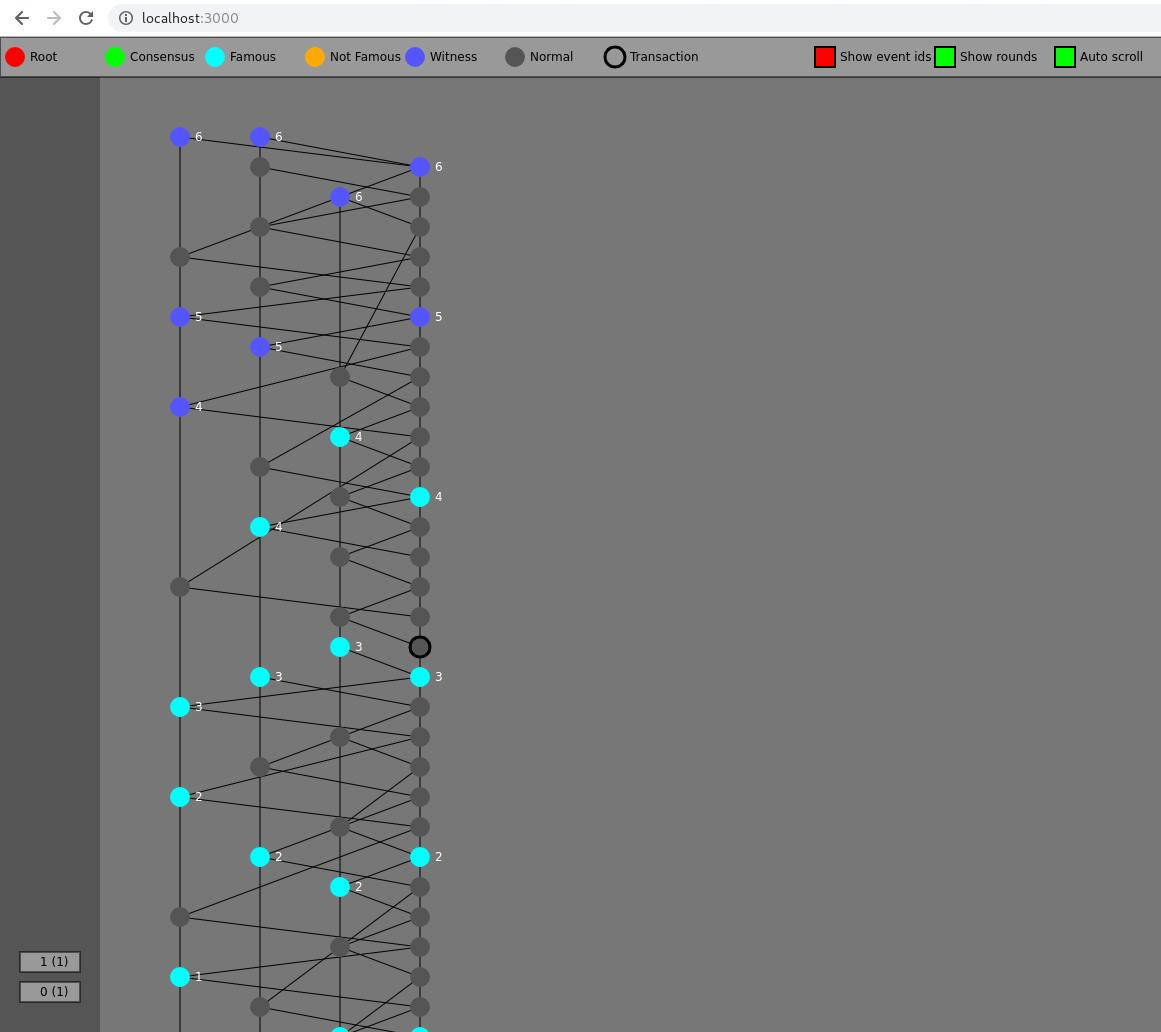
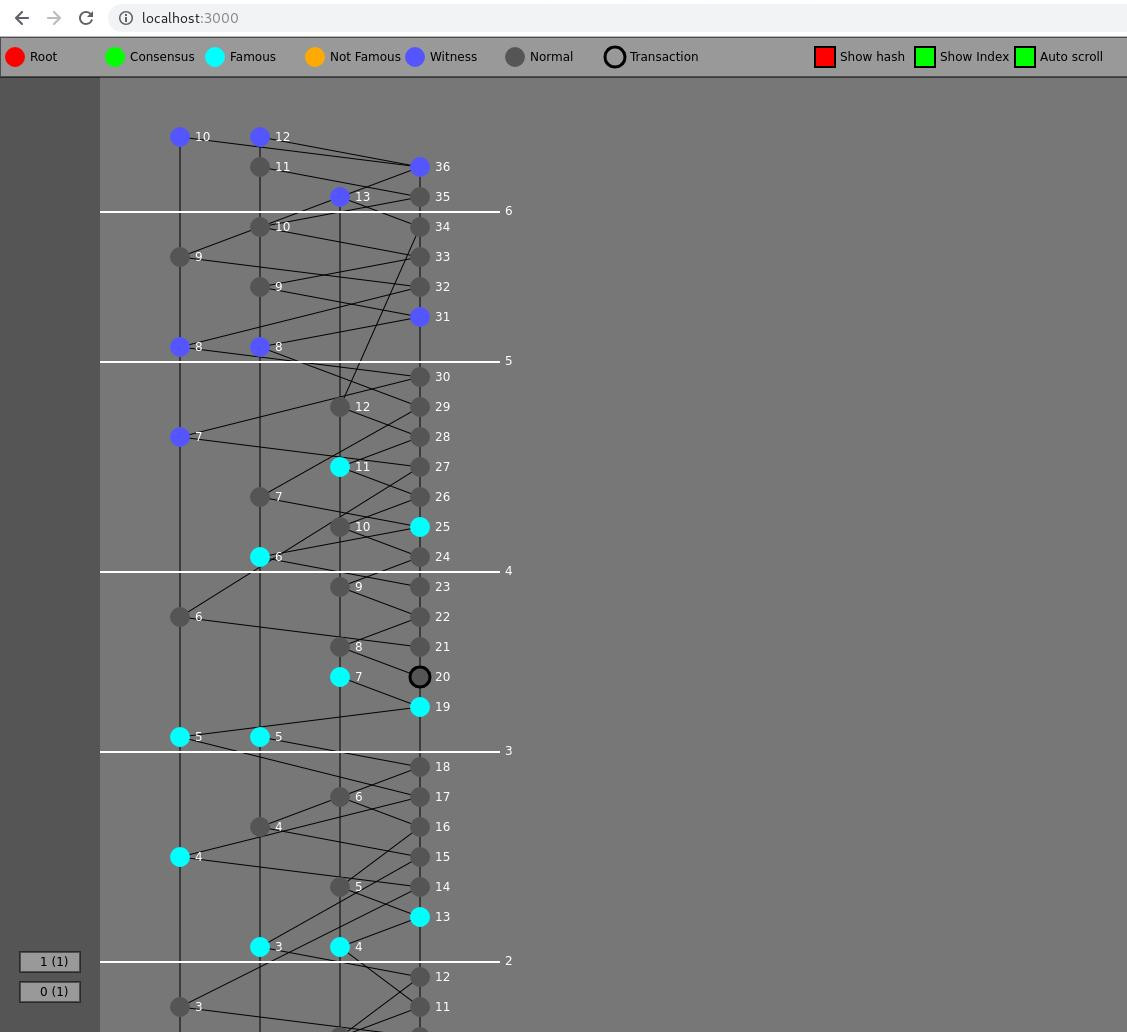
Restored round lines, replaced event Round text by event Index

diff --git a/static/assets/draw.js b/static/assets/draw.js
@@ -111,7 +111,7 @@ const drawEvent = (id, event) => {
         fill: 'white',
     });
 
-    if (!settingValues.showEventIds) {
+    if (!settingValues.showEventHash) {
         event.text.hide();
     }
 
@@ -140,18 +140,16 @@ const drawEvent = (id, event) => {
     hgGroup.add(event.text);
 
     // Round ID
-    if (event.Witness) {
-        event.roundId = new Konva.Text({
-            x: event.x + 15,
-            y: -event.y - 5,
-            text: '' + event.Round,
-            fontSize: 12,
-            fontFamily: 'Calibri',
-            fill: 'white',
-        });
+    event.roundIdx = new Konva.Text({
+        x: event.x + 15,
+        y: -event.y - 5,
+        text: '' + event.Body.Index,
+        fontSize: 12,
+        fontFamily: 'Calibri',
+        fill: 'white',
+    });
 
-        hgGroup.add(event.roundId);
-    }
+    hgGroup.add(event.roundIdx);
 
     if (settingValues.autoScroll) {
         hgGroup.setY(_.max([window.innerHeight, hgGroup.getY(), event.y + 100]));
@@ -182,60 +180,60 @@ const drawEventLinks = event => {
 };
 
 // Draw the round separators
-// const drawRoundLines = rounds => {
-//     // Dirty tmp fix for events that are in the first and second round
-//     if (rounds.length >= 2) {
-//         rounds[1].CreatedEvents = _.fromPairs(_.differenceBy(_.toPairs(rounds[1].CreatedEvents), _.toPairs(rounds[0].CreatedEvents), ([rId, round]) => rId));
-//     }
+const drawRoundLines = rounds => {
+    // Dirty tmp fix for events that are in the first and second round
+    if (rounds.length >= 2) {
+        rounds[1].CreatedEvents = _.fromPairs(_.differenceBy(_.toPairs(rounds[1].CreatedEvents), _.toPairs(rounds[0].CreatedEvents), ([rId, round]) => rId));
+    }
 
-//     _(rounds)
-//         .each((round, rId) => {
-//             // Dont draw existing round
-//             if (rId <= actualRound) {
-//                 return;
-//             }
+    _(rounds)
+        .each((round, rId) => {
+            // Dont draw existing round
+            if (rId <= actualRound) {
+                return;
+            }
 
-//             let roundEvents = [];
+            let roundEvents = [];
 
-//             _.forIn(round.CreatedEvents, (event, reId) => {
-//                 roundEvents.push(_.find(events, ([eId, e]) => eId === reId))
-//             });
+            _.forIn(round.CreatedEvents, (event, reId) => {
+                roundEvents.push(_.find(events, ([eId, e]) => eId === reId))
+            });
 
 
-//             roundEvents = _.compact(roundEvents);
+            roundEvents = _.compact(roundEvents);
 
-//             if (roundEvents.length === 0) {
-//                 return
-//             }
+            if (roundEvents.length === 0) {
+                return
+            }
 
-//             let [eId, ev] = _.minBy(roundEvents, ([eId, ev]) => ev.y);
+            let [eId, ev] = _.minBy(roundEvents, ([eId, ev]) => ev.y);
 
-//             let line = new Konva.Line({
-//                 points: [
-//                     100,
-//                     -(ev.y - yInterval / 2),
-//                     100 + (_.keys(participants).length + 1) * xInterval,
-//                     -(ev.y - yInterval / 2),
-//                 ],
-//                 stroke: 'white',
-//                 strokeWidth: 2,
-//             });
+            let line = new Konva.Line({
+                points: [
+                    100,
+                    -(ev.y - yInterval / 2),
+                    100 + (_.keys(participants).length + 1) * xInterval,
+                    -(ev.y - yInterval / 2),
+                ],
+                stroke: 'white',
+                strokeWidth: 2,
+            });
 
-//             let txt = new Konva.Text({
-//                 x: 100 + 5 + (_.keys(participants).length + 1) * xInterval,
-//                 y: -(ev.y - yInterval / 2 + 6),
-//                 text: '' + rId,
-//                 fontSize: 12,
-//                 fontFamily: 'Calibri',
-//                 fill: 'white',
-//             });
+            let txt = new Konva.Text({
+                x: 100 + 5 + (_.keys(participants).length + 1) * xInterval,
+                y: -(ev.y - yInterval / 2 + 6),
+                text: '' + rId,
+                fontSize: 12,
+                fontFamily: 'Calibri',
+                fill: 'white',
+            });
 
-//             hgGroup.add(line);
-//             hgGroup.add(txt);
-//         });
+            hgGroup.add(line);
+            hgGroup.add(txt);
+        });
 
-//     actualRound = rounds.length - 1;
-// };
+    actualRound = rounds.length - 1;
+};
 
 const drawBlocks = blocks => {
     _.each(blocks, (block, bId) => {
@@ -289,7 +287,7 @@ const draw = (evs, rounds, blocks) => {
         drawEventLinks(event);
     });
 
-    // drawRoundLines(rounds);
+    drawRoundLines(rounds);
 
     drawBlocks(blocks)
 
@@ -381,32 +379,28 @@ const drawLegend = () => {
 const drawSettings = () => {
     let settings = [
         {
-            label: 'Show event ids',
-            name: 'showEventIds',
+            label: 'Show hash',
+            name: 'showEventHash',
             trigger: () => {
-                if (settingValues.showRounds && settingValues.showEventIds) {
+                if (settingValues.showEventIdx && settingValues.showEventHash) {
                     toggle(settings[1]);
                 }
 
-                _.each(events, ([eId, event]) => settingValues.showEventIds ? event.text.show() : event.text.hide());
+                _.each(events, ([eId, event]) => settingValues.showEventHash ? event.text.show() : event.text.hide());
+
                 layer.draw();
             }
         },
         {
-            label: 'Show rounds',
-            name: 'showRounds',
+            label: 'Show Index',
+            name: 'showEventIdx',
             trigger: () => {
-                if (settingValues.showRounds && settingValues.showEventIds) {
+                if (settingValues.showEventIdx && settingValues.showEventHash) {
                     toggle(settings[0]);
                 }
 
-                _.each(events, ([eId, event]) => {
-                    if (event.roundId == null) {
-                        return;
-                    }
+                _.each(events, ([eId, event]) => settingValues.showEventIdx ? event.roundIdx.show() : event.roundIdx.hide());
 
-                    settingValues.showRounds ? event.roundId.show() : event.roundId.hide();
-                });
                 layer.draw();
             }
         },
@@ -431,7 +425,7 @@ const drawSettings = () => {
 
     _.each(settings, (setting, i) => {
         setting.rect = new Konva.Rect({
-            x: 800 + 15 + (i * 120),
+            x: 800 + 15 + (i * 100),
             y: 10,
             width: 20,
             height: 20,
@@ -440,7 +434,7 @@ const drawSettings = () => {
         });
 
         setting.text = new Konva.Text({
-            x: 800 + 40 + (i * 120),
+            x: 800 + 40 + (i * 100),
             y: 15,
             text: setting.label,
             fontSize: 12,

diff --git a/static/assets/core.js b/static/assets/core.js
@@ -64,13 +64,13 @@ const setYPos = ([eId, event]) => {
         event.y = higherParent.y + yInterval;
 
         // fix the position if in another round than a Y neighbour
-        // let neighbour = _.find(events, ([eId, ev]) => {
-        //     return ev.y >= event.y && eId !== event.EventId && ev.Round < event.Round;
-        // });
+        let neighbour = _.find(events, ([eId, ev]) => {
+            return ev.y >= event.y && eId !== event.EventId && ev.Round < event.Round;
+        });
 
-        // if (neighbour != null) {
-        //     event.y = neighbour[1].y + yInterval;
-        // }
+        if (neighbour != null) {
+            event.y = neighbour[1].y + yInterval;
+        }
 
     }
 

diff --git a/static/assets/index.js b/static/assets/index.js
@@ -20,8 +20,8 @@ let actualRound = -1;
 let actualBlock = -1;
 
 const settingValues = {
-    showEventIds: false,
-    showRounds: true,
+    showEventHash: false,
+    showEventIdx: true,
     autoScroll: true,
 };
 
